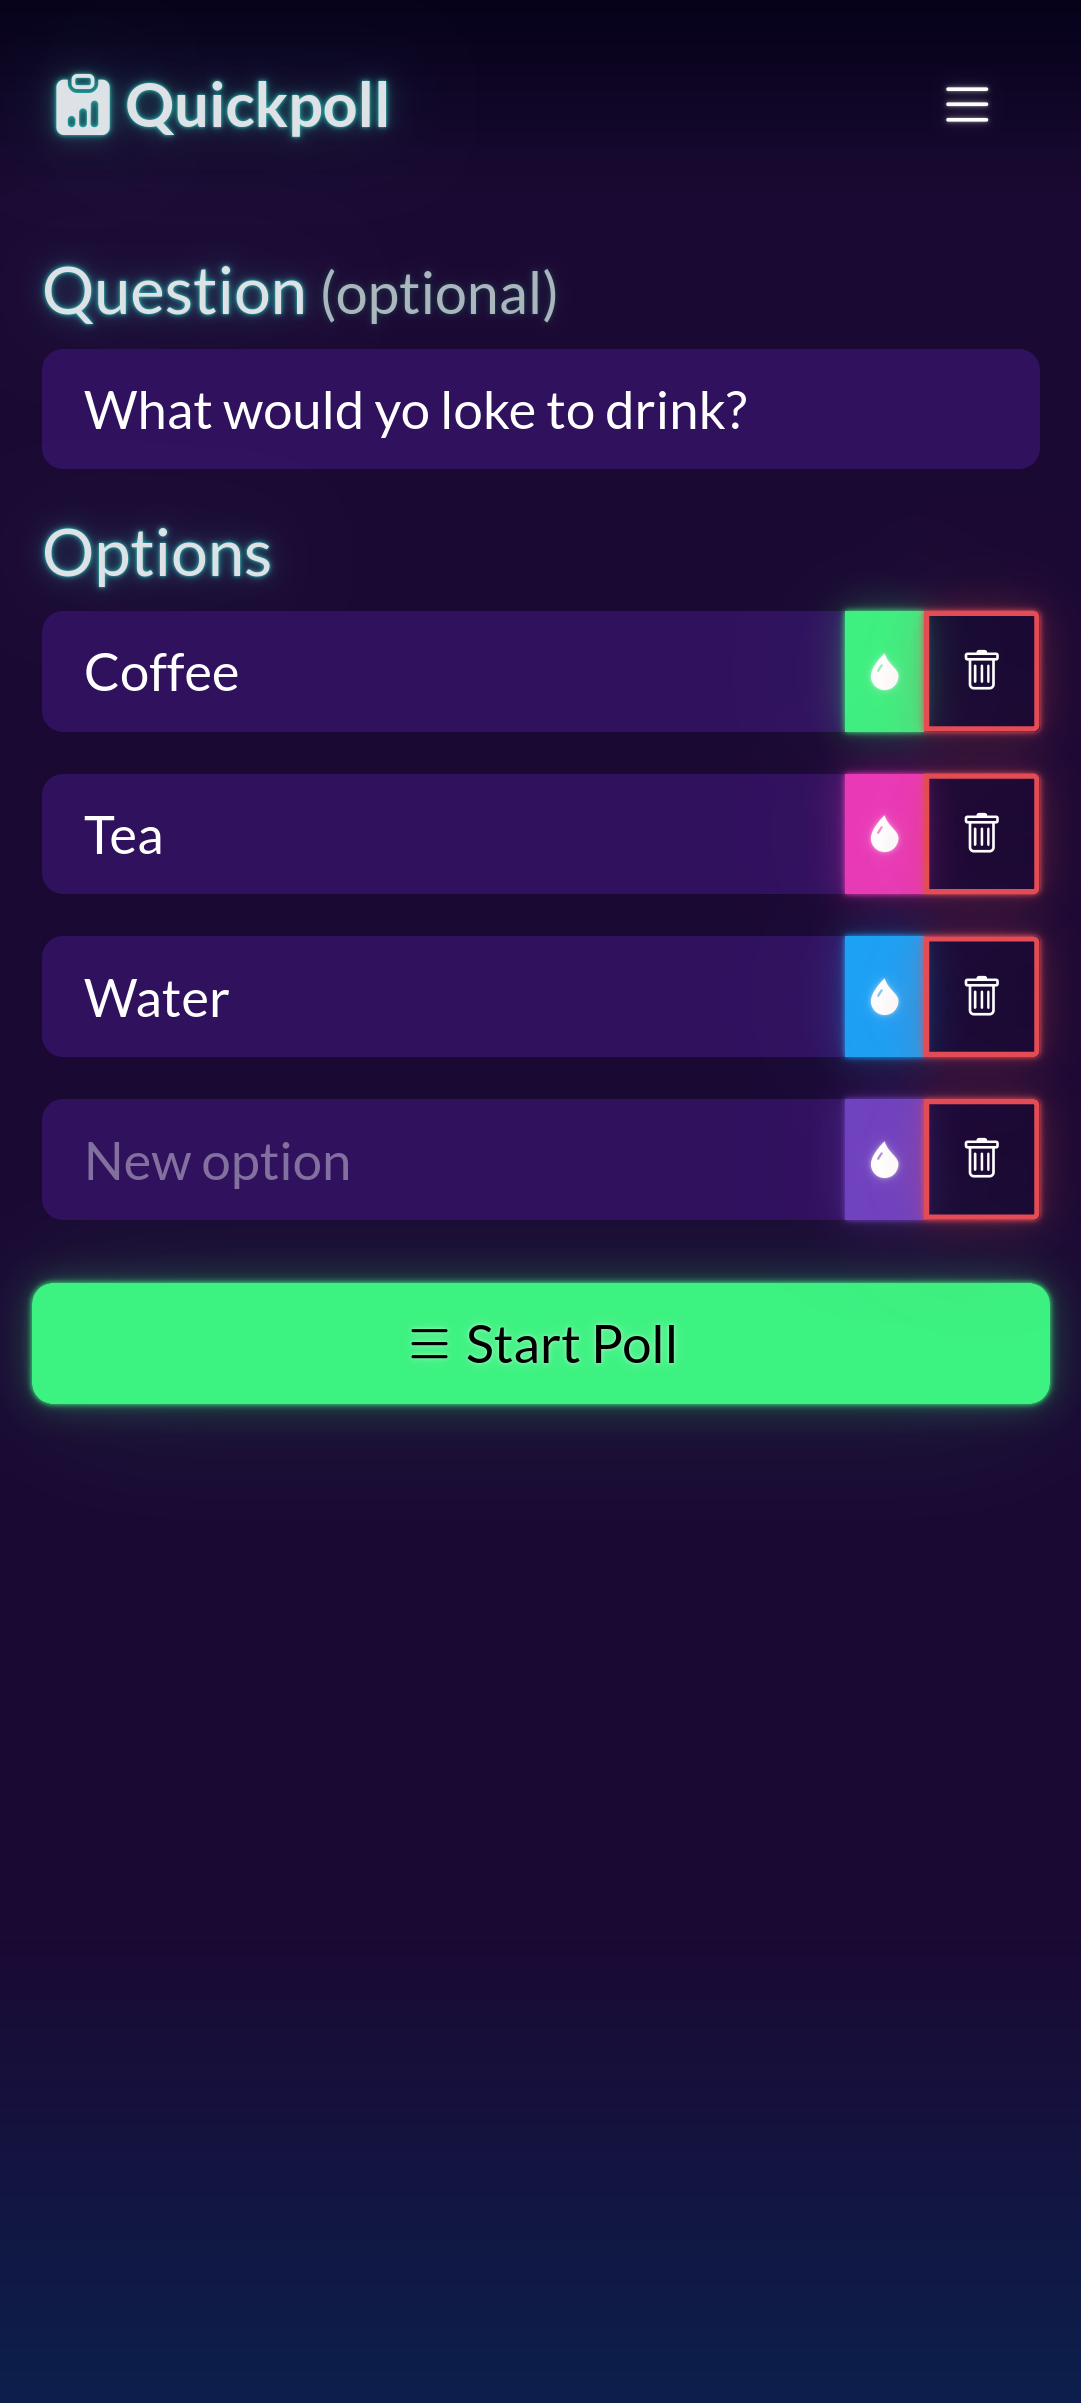
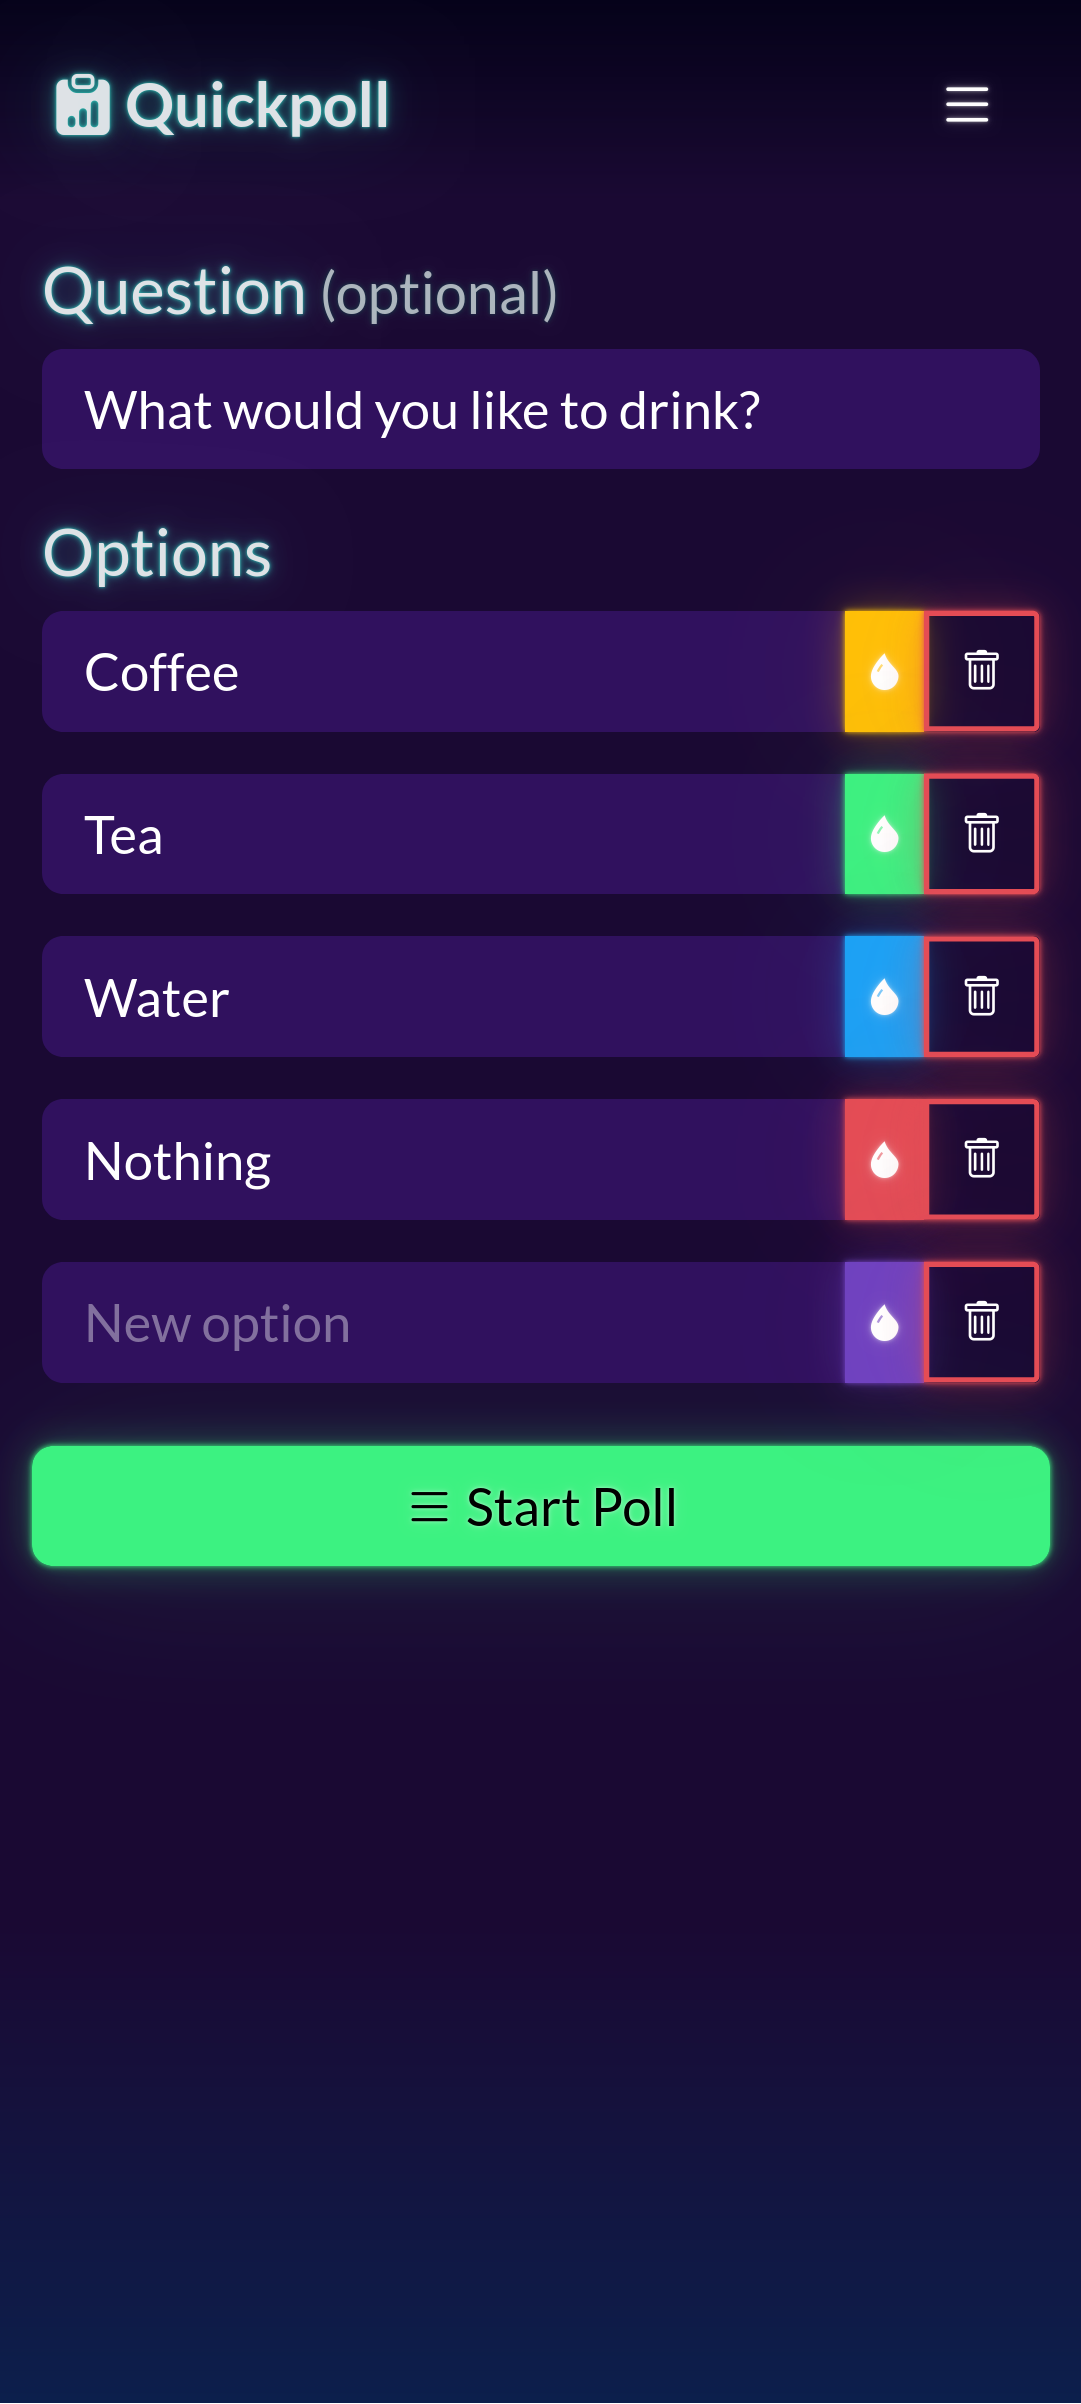
feat: landing page tweaks

Changed region(s): [[0.0, 0.4368, 1.0, 0.6552], [0.7632, 0.2496, 0.8548, 0.3744], [0.3969, 0.156, 0.7021, 0.1872]]

diff --git a/index.html b/index.html
@@ -85,14 +85,21 @@
         <h1 class="display-5 text-center mb-3">
           A quick, in-person poll on one device. Set up in seconds.
         </h1>
-        <p class="lead text-center">
-          Works offline, nothing leaves the room.
-          <br />
+        <p class="lead text-center">Works offline, nothing leaves the room.</p>
+        <p class="text-center text-small">
+          <i class="bi bi-check"></i>
+          Poll
+          <i class="bi bi-check"></i>
+          Tally
+          <i class="bi bi-check"></i>
+          Count
+          <i class="bi bi-check"></i>
+          Keep Score
         </p>
       </div>
       <!--/row hero-->
 
-      <div class="row mb-3 px-1">
+      <div class="row mb-3 px-4">
         <div class="mb-3">
           <input
             class="form-control form-control-lg"